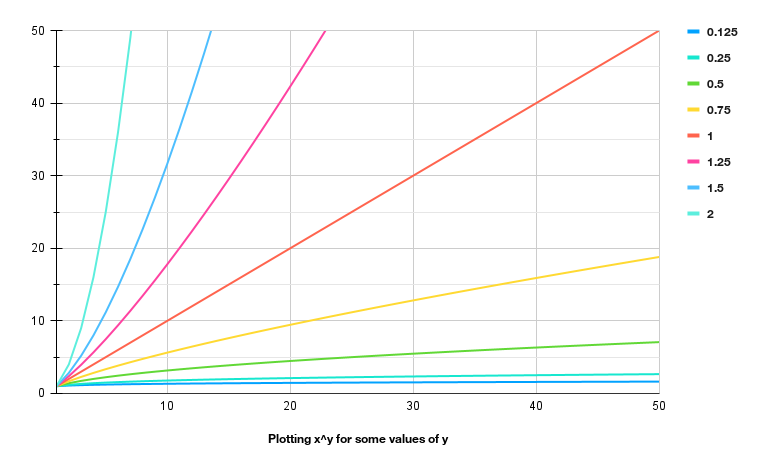
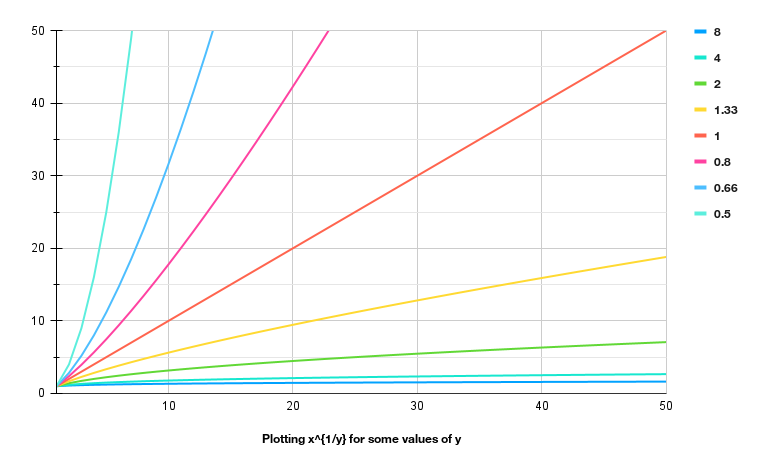
Updated documentation

diff --git a/manifold-hedger/documentation/pics/documentation.md b/manifold-hedger/documentation/pics/documentation.md
@@ -12,6 +12,7 @@
         - [Ledger-Hedger: The subgame space](#ledger-hedger-the-subgame-space)
     - [Assumptions made explicit](#assumptions-made-explicit)
         - [Refined payoffs](#refined-payoffs)
+        - [Ambiguity with the `payment` parameter](#ambiguity-with-the-payment-parameter)
         - [Service costs](#service-costs)
         - [Modelling risk explicitly](#modelling-risk-explicitly)
 - [Code deep dive](#code-deep-dive)
@@ -39,7 +40,7 @@ This project implements the model detailed in the [Ledger-Hedger](https://eprint
 ## Analytics results
 **The most important finding in our simulations is that Ledger-Hedger is incredibly sensible to initial parameters, and not as robust as we would have expected.**
 
-A more detailed analysis can be found in the section:
+A more detailed analysis can be found in the section [Analytics](#analytics).
 
 First of all, we tried to replicate the analysis outlined in the paper. We used the same parameters provided there, and verified equilibrium. Curiously, in the case of logarithmic utility we weren't able to replicate the paper results for the smallest standard deviation provided. This could be a question of how the distribution is computed in detail, and a symptom of the more general fact that the game-theoretic scenarios detailed in the paper are fragile. In our opinion, this depends on two main factors:
 
@@ -52,7 +53,7 @@ Indeed, in a risk-neutral scenario there is no difference between using or not u
 
 Summarizing, our main findings are the following:
 - Running the protocol with the parameters provided in the paper makes no sense, as the advantage in using Ledger-Hedger is very low even for very risk-averse players.
-- Using Ledger-Hedger makes players incur  extra costs: **Seller** pays a fee for using the platform, whereas **Buyer** pays a (smaller) fee for using the platform *and* has also to pay **Seller** a price premium.
+- Using Ledger-Hedger makes players incur extra costs: **Seller** pays a fee for using the platform, whereas **Buyer** pays a (smaller) fee for using the platform *and* has also to pay **Seller** a price premium.
 - These expenses are only offset by the risk-aversity of the players. The more risk-averse they are, the more it makes sense for them to carry these extra costs.
 - Varying the price parameter won't help much, as price constitutes revenue for **Seller** but a cost for **Buyer**. So the more we make it convenient for the former, the less we make it convenient for the latter, and vice-versa.
 - As it is instantiated, the protocol is so brittle that even small changes in the standard deviation of future gas price distribution disturb the equilibrium.
@@ -211,6 +212,13 @@ Adopting this flow perspective, things change a great deal if one decides to add
 In the first case, payoffs can become negative at some stages of the game: For instance, in the subgame **AcceptLH**, **Seller** gets a negative payoff when the $Accept$ decision is taken. Clearly, this allows the game to progress and **Seller** will be able to recoup the collateral together with the mining fee later on, making the payoff positive overall.
 
 Still, adding payoffs as things progress can cause problems when one notices that the utility functions representing risk-aversion - namely `sqrt` and `log` - are well-defined only for positive numbers. To avoid this inconsistency problems we opted for calculating payoffs only when the end of a branch is reached. We also think that this represents better rational players, which are able to reason about the game until 'the very end'.
+
+### Ambiguity with the `payment` parameter
+
+In the paper, there was confusion around the `payment` parameter: sometimes, it was used to mean the price at which **Buyer** offers to buy `gasAllocTX`. Some other time, it is used to mean the product of `gasAllocTX` with the price above mentioned. This mistake put us in the position of having to make a choice, since 'just following the paper' was impossible without contradictions.
+
+Hence, for us, `payment` will mean the price at which **Buyer** offers to buy a quantity `gasAllocTX` of gas from **Seller**. The total payment **Buyer** will make to seller in using Ledger-Hedger will then be
+$$\mathtt{payment} \cdot \mathtt{gasAllocTX}$$
 
 ### Service costs
 
@@ -446,6 +454,9 @@ The model is composed of several files:
 
 Relying on the DSL Primer, parsing the code structure should be a manageable task.
 
+Moreover, the code is divided in two different branches:
+- `main` contains the standard model, and runs analytics with the parameters provided in the Ledger-Hedger paper.
+- `eq-breaking` instead parametrizes the risk-aversity in the utility functions, and runs stress tests to check under which conditions the equilibrium breaks.
 
 # Analytics
 
@@ -573,22 +584,29 @@ For more information about how to supply strategies and/or how to make changes, 
 
 ## Replicating the Ledger-Hedger paper results 
 
+These results can be found in the `main` branch (see subsection [File structure](#file-structure) for more information). The results can be seen by just running `stack run` in normal execution mode, or by giving `main` in the REPL (see [Installation](#installation) for details). In both case, we will be running the `main` function defined in `Main.hs`, which runs a predetermined battery of tests.
+
 To replicate the results claimed in the Ledger-Hedger paper, we instantiated the model with the following parameters (the instantiation can be found in `Parameters.hs`):
 
 | **Parameter**  | **Name in the paper** | **Meaning** | **Value** |
 |:--------------:|:---------------------:|:-----------:|:----------:|
-| `wealth`       | $W^{init}_{Buyer}$    | Initial wealth of **Buyer** | $10^9$           |
-| `wealth`       | $W^{init}_{Seller}$   | Initial wealth of **Seller** |$10^9$           |
-| `collateral`   | $$col$$               | The collateral **Seller** must pay to accept LH contract | $10^9$           |
-| `payment`      | payment               | The payment **Buyer** makes to **Seller** when LH contract is concluded. | $100$            |
+| `buyerWealth`       | $W^{init}_{Buyer}$    | Initial wealth of **Buyer** | $10^9$           |
+| `sellerWealth`       | $W^{init}_{Seller}$   | Initial wealth of **Seller** |$10^9$           |
+| `collateral`   | $$col$$               | The collateral **Seller** must pay to accept LH contract. | $10^9$           |
+| `piContract`      | $\pi_{contract}$               | The price at which **Buyer** buys `gasAllocTX` from **Seller** in the LH contract. | $100$            |
 | `epsilon`      | $\epsilon$            | Technical parameter to disincentivize unwanted behavior from **Seller**. | $1$              |
 | `gasInitiation`| $g_{init}$            | Cost of opening a LH contract. | $0.1 \cdot 10^6$ |
 | `gasAccept`    | $g_{accept}$          | Cost of accepting a LH contract. | $75 \cdot 10^3$  |
 | `gasDone`      | $g_{done}$            | Cost of closing a LH contract. | $20 \cdot 10^3$  |
 | `gasAllocTX`   | $g_{alloc}$           | Gas reserved in the LH contract. | $5 \cdot 10^6$   |
 | `gasPub`   | $g_{pub}$           | Gas size of the TX if issued at current market price. | $5 \cdot 10^6$   |
+| `piInitial` | $\pi_{initial}$ | Initial gas price | 100
+
 
 These parameters were directly pulled from Sec. 6 of the Ledger-Hedger paper. As for the utility functions, we again followed what the authors did by instantiating the utility functions for both **Buyer** and **Seller** to be first $log(x)$ and then $\sqrt(x)$. These function represent risk-aversity.
+
+Moreover, as specified in the section [Assumptions made explicit](#assumptions-made-explicit), we had to postulate an explicit utility for the transaction that **Buyer** wants to issue. This is represented by the parameter `utilityFromTX`, which has been set to $10^9$.
+
 
 As for future price distribution, we defined it as `testDistribution`: This is a normal distribution centered around the initial gas price. Again, we used the standard deviations suggested in the paper. Moreover, we defined `testActionSpaceGasPub`, representing the range in which $g_{pub}$ can swing. $g_{pub}$ is the gas consumed if **Buyer** decides to issue the transaction at market price, thus without resorting to Ledger-Hedger. In practice, we followed the paper and equated $g_{pub}$ and $g_{alloc}$, meaning that **Buyer** is using Ledger-Hedger to reserve the precise amount of gas needed to execute the transaction.
 
@@ -609,22 +627,23 @@ In this scenario, both Players will be much more willing to use Ledger-Hedger, a
 
 ## Other analyses
 
-We ran also some other analyses. First of all, and unsurprisingly, we found out that running the model with the following parameters results in a much bigger utility:
+We ran also some other analyses these can be found in the `eq-breaking` branch (see subsection [File structure](#file-structure) for more information). First of all, and unsurprisingly, we found out that running the model with the following parameters results in a much bigger utility:
 
 | **Parameter**  | **Name in the paper** | **Meaning** | **Value** |
 |:--------------:|:---------------------:|:-----------:|:----------:|
 | `wealth`       | $W^{init}_{Buyer}$    | Initial wealth of **Buyer** | $10^9$           |
 | `wealth`       | $W^{init}_{Seller}$   | Initial wealth of **Seller** |$10^9$           |
 | `collateral`   | $$col$$               | The collateral **Seller** must pay to accept LH contract | $10^9$           |
-| `payment`      | payment               | The payment **Buyer** makes to **Seller** when LH contract is concluded. | $100$            |
+| `piContract`      | $\pi_{contract}$               | The payment **Buyer** makes to **Seller** when LH contract is concluded. | $100$            |
 | `epsilon`      | $\epsilon$            | Technical parameter to disincentivize unwanted behavior from **Seller**. | $1$              |
 | `gasInitiation`| $g_{init}$            | Cost of opening a LH contract. | $0$ |
 | `gasAccept`    | $g_{accept}$          | Cost of accepting a LH contract. | $0$  |
 | `gasDone`      | $g_{done}$            | Cost of closing a LH contract. | $0$  |
 | `gasAllocTX`   | $g_{alloc}$           | Gas reserved in the LH contract. | $5 \cdot 10^6$   |
 | `gasPub`   | $g_{pub}$           | Gas size of the TX if issued at current market price. | $5 \cdot 10^6$   |
+| `piInitial` | $\pi_{initial}$ | Initial gas price | 100
 
-This represents the scenario where we dispense of the platform fees altogether. Most likely, this scenario hadn't been considered in the original paper as the original work was meant to be part of some on-chain infrastructure. As such, what we call 'platform fees' would just be unavoidable smart contract execution costs.
+This represents the scenario where we dispense of the platform fees altogether, and pay for `gasAllocTX` exactly the current price. Most likely, this scenario hadn't been considered in the original paper as the original work was meant to be part of some on-chain infrastructure. As such, what we call 'platform fees' would just be unavoidable smart contract execution costs.
 
 Keeping everything fixed, we then turned `payment` into a parameter. In the $\sqrt x$ case, we verified that in this setting the equilibrium is solid within the bound:
 
@@ -639,12 +658,14 @@ That is, these represent the maximum and minimum `payment` parameters within whi
 
 Using both the original paper parameters and the 'zero fees' parameters, we then ran a multivariate analysis on player's risk aversity. In practice, we generalized the $\sqrt x$ function, up to now being used by both players, to the couple of functions
 
-$$\Large x^{y_{\mathbf{Buyer}}} \qquad x^{y_{\mathbf{Seller}}}$$
+$$\Large x^{\frac{1}{y_{\mathbf{Buyer}}}} \qquad x^{\frac{1}{y_{\mathbf{Seller}}}}$$
 
 The concavity/convexity of these functions is dependent on the value of $y$, as shown in the following chart:
-![Alt text](x_exp_y.png)
+
+![Plotting x^{1/y} for different values of y](x_exp_y.png)
 
 Thus, $y_{\mathbf{Buyer}}$ and $y_{\mathbf{Seller}}$ represent the risk-aversity of both players, respectively.
-Positive values $< 1$ represent risk-aversity ,$1$ represent risk-neutrality, while values $> 1$ signal risk-loving.
+Positive values $< 1$ represent risk-love ,$1$ represents risk-neutrality, while values $> 1$ signal risk-aversity.
 
-Keeping all parameters fixed, the shaded region in the following graph represent where the equilibrium holds:
+Keeping all parameters fixed, the shaded region in the following graph represents where the equilibrium holds:
+
